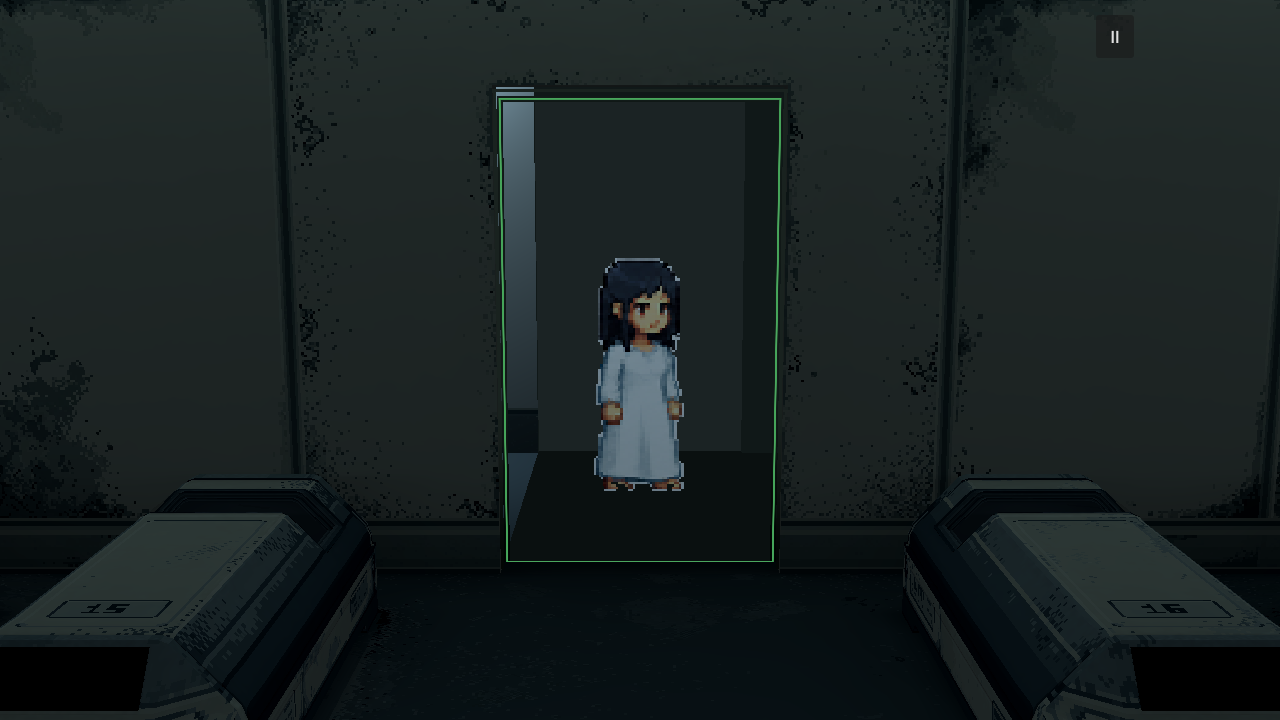
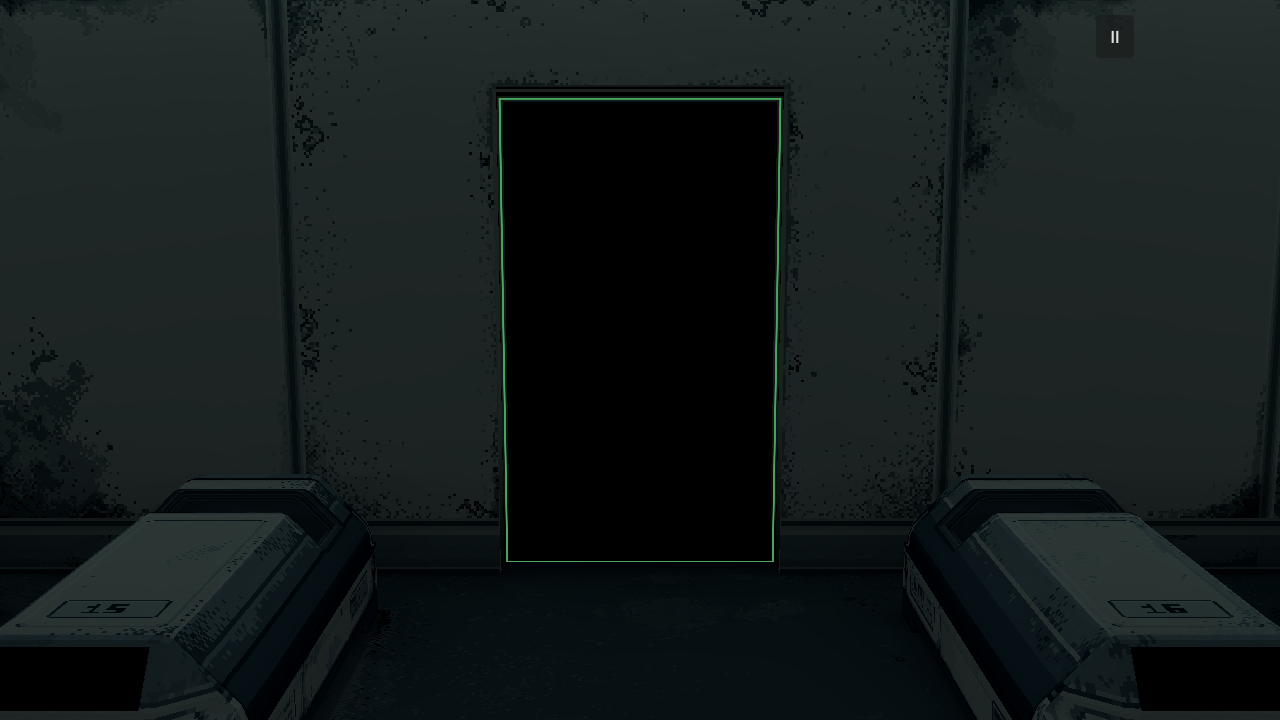
fix: reuse aisle floor and require interaction at opaque doorway

Changed region(s): [[0.375, 0.1222, 0.5938, 0.7333]]

diff --git a/docs/art/experiments/cryo_corridor_sample_v1/preview.html b/docs/art/experiments/cryo_corridor_sample_v1/preview.html
@@ -2,15 +2,15 @@
 <title>4F走廊小样 · 180°镜头与遮挡</title>
 <style>body{margin:30px auto;padding:0 22px;max-width:1320px;background:#142022;color:#dce6e4;font:16px/1.7 system-ui}h1{font-size:28px}button,select{font:inherit;padding:8px 14px;margin:4px;background:#2b4548;border:1px solid #789391;color:inherit;border-radius:5px}img{display:block;width:100%;height:auto;image-rendering:pixelated}figure{margin:22px 0}a{color:#a0d4d1}.notice{border-left:3px solid #cab58b;padding:10px 16px;background:#243336}.raw{display:flex;gap:30px;align-items:flex-start}.raw img{width:auto;max-width:45%;border:1px solid #506766}.small{color:#afc1bd}button[aria-pressed=true]{background:#49756d}</style>
 <h1>4F门外走廊 · 小样 v1</h1>
-<p>继承r30的独立F6候选。出门黑屏 → 镜头反向180° → 邻室遮挡透明；返回室内恢复。</p>
-<p class="notice">墙板为待审候选；地坪两次生成均返回纯色，仍是占位。本轮共用30次额度，已停止生成。下图均为实际Godot输出，不是效果示意图。</p>
+<p>继承r30的独立F6候选。E互动认证 → 黑色门洞 → 出门黑屏 → 镜头反向180° → 邻室遮挡透明；返回室内恢复。</p>
+<p class="notice">墙板为待审候选；地坪复用r26中央过道，避开舱位痕迹和漏液。靠近门按E后认证，门洞两面始终为黑色。此前生成用30次，本次复用与门逻辑修改0次。下图均为实际Godot输出，不是效果示意图。</p>
 <p><a href="README.md">来源、操作与验证</a> · F6：scenes/dev/cryo_corridor_sample_v1.tscn · F8到小样，F7切换灰盒／小样。</p>
-<select id="view" aria-label="比较机位"><option value="reverse180">180°反向游戏镜头</option><option value="wall">完整墙板技术审图</option><option value="oblique">走廊内斜向技术审图</option><option value="door_link">室内开门衔接</option><option value="floor">地坪范围（占位）</option></select>
+<select id="view" aria-label="比较机位"><option value="reverse180">180°反向游戏镜头</option><option value="wall">完整墙板技术审图</option><option value="oblique">走廊内斜向技术审图</option><option value="door_link">室内开门衔接</option><option value="floor">复用地坪范围</option></select>
 <button id="old" onclick="setMode('baseline')">原灰盒</button><button id="new" onclick="setMode('sample')">小样</button>
 <figure><img id="main" src="evidence/sample_reverse180.png" alt="小样180度镜头"><figcaption id="caption"></figcaption></figure>
 <h2>真实进出门状态</h2><p class="small">以下是连续操作的四个状态截图；黑屏帧是真实全黑输出。实际淡黑0.22秒、黑屏保持0.08秒、淡入0.30秒。</p>
 <button onclick="phase(0)">1 室内出门前</button><button onclick="phase(1)">2 全黑时旋转</button><button onclick="phase(2)">3 反向镜头＋透明</button><button onclick="phase(3)">4 返回室内</button>
 <figure><img id="transition" src="evidence/transition_03_reverse180.png" alt="出门后的反向视角"></figure>
-<h2>原生材质与未完成项</h2><div class="raw"><img src="raw/wall.png" alt="PixelLab墙板原图256×256"><img src="raw/floor_detail.png" alt="不合格地坪：纯色占位"></div>
-<p class="small">左：墙板原图，复用到走廊两侧。右：地坪返修原图仍为单色，未通过美术检查。没有插值放大，也没有用脚本添污斑。</p>
-<script>let mode='sample';const v=document.getElementById('view');function setMode(m){mode=m;document.getElementById('main').src='evidence/'+mode+'_'+v.value+'.png';document.getElementById('caption').textContent=(mode==='sample'?'小样（墙板候选／地坪占位）':'原灰盒')+' · '+v.options[v.selectedIndex].text+' · 1280×720';document.getElementById('old').setAttribute('aria-pressed',mode==='baseline');document.getElementById('new').setAttribute('aria-pressed',mode==='sample')}v.onchange=()=>setMode(mode);function phase(i){document.getElementById('transition').src='evidence/'+['transition_01_inside','transition_02_black','transition_03_reverse180','transition_04_inside_restored'][i]+'.png'}setMode(mode);</script></html>
+<h2>原生材质与未完成项</h2><div class="raw"><img src="raw/wall.png" alt="PixelLab墙板原图256×256"><img src="raw/floor_reused_r26.png" alt="r26中央过道原生裁片"></div>
+<p class="small">左：墙板原图，复用到走廊两侧。右：r26中央过道的256×192原生裁片，没有舱底轮廓。没有插值放大，也没有用脚本添污斑。</p>
+<script>let mode='sample';const v=document.getElementById('view');function setMode(m){mode=m;document.getElementById('main').src='evidence/'+mode+'_'+v.value+'.png';document.getElementById('caption').textContent=(mode==='sample'?'小样（墙板候选／r26复用地坪）':'原灰盒')+' · '+v.options[v.selectedIndex].text+' · 1280×720';document.getElementById('old').setAttribute('aria-pressed',mode==='baseline');document.getElementById('new').setAttribute('aria-pressed',mode==='sample')}v.onchange=()=>setMode(mode);function phase(i){document.getElementById('transition').src='evidence/'+['transition_01_inside','transition_02_black','transition_03_reverse180','transition_04_inside_restored'][i]+'.png'}setMode(mode);</script></html>

diff --git a/docs/art/experiments/cryo_corridor_sample_v1/source/package_art.py b/docs/art/experiments/cryo_corridor_sample_v1/source/package_art.py
@@ -5,8 +5,13 @@ from PIL import Image
 HERE=Path(__file__).resolve().parent;EXP=HERE.parent;ROOT=HERE.parents[4]
 DEST=ROOT/'assets/art/cryo_corridor_sample_v1';DEST.mkdir(parents=True,exist_ok=True)
 report=[]
-for name,rawname,expected in [('wall','wall',(256,256)),('floor','floor_256',(256,192))]:
- raw=EXP/'raw'/f'{rawname}.png';im=Image.open(raw);assert im.size==expected
+for name,rawname,expected in [('wall','wall',(256,256)),('floor','floor_reused_r26',(256,192))]:
+ raw=EXP/'raw'/f'{rawname}.png'
+ if name=='floor':
+  origin=ROOT/'assets/art/room1_floor_detail_full_r26/floor_with_leaks.png'
+  Image.open(origin).crop((768,256,1024,448)).save(raw)
+  (HERE/'floor_reuse_provenance.json').write_text(json.dumps({'source':origin.relative_to(ROOT).as_posix(),'source_sha256':hashlib.sha256(origin.read_bytes()).hexdigest(),'crop_xyxy':[768,256,1024,448],'source_region':'central aisle, between both pod rows; excludes rectangular pod footprints and leaks','native_size':[256,192],'world_size_m':[3.2,2.4],'resampled':False,'paint_changes':False,'new_generations':0},indent=2))
+ im=Image.open(raw);assert im.size==expected
  shutil.copy2(raw,DEST/f'{name}.png')
  # OpenRaster is an editable, named source layer; no painting/retouch is applied.
  with zipfile.ZipFile(EXP/'editable'/f'{name}.ora','w') as z:

diff --git a/docs/art/experiments/cryo_corridor_sample_v1/source/build_model.py b/docs/art/experiments/cryo_corridor_sample_v1/source/build_model.py
@@ -22,7 +22,7 @@ def mesh(name,verts,faces,uvs,mat):
  ob=bpy.data.objects.new(name,me);bpy.context.collection.objects.link(ob);me.materials.append(mat)
  ob['scope']='visual cladding only; existing route collision retained';return ob
 
-wall=material('Corridor_Wall_PixelLab','wall.png');floor=material('Corridor_Floor_Placeholder','floor.png');trim=material('Corridor_Dark_Trim',color=(.12,.17,.18,1))
+wall=material('Corridor_Wall_PixelLab','wall.png');floor=material('Corridor_Floor_Reused_R26','floor.png');trim=material('Corridor_Dark_Trim',color=(.12,.17,.18,1))
 # Front wall veneer occupies the existing wall thickness; visible face offset 3mm to avoid coplanar overlap.
 w=mesh('Wall_3p2m_TwoBays',[(6.6,0,-11.897),(9.8,0,-11.897),(9.8,3.2,-11.897),(6.6,3.2,-11.897)],[(0,1,2,3)],[[(0,0),(1,0),(1,1),(0,1)]],wall)
 wr=mesh('Room1_Exterior_Wall_Module',[(9.8,0,-9.503),(6.6,0,-9.503),(6.6,3.2,-9.503),(9.8,3.2,-9.503)],[(0,1,2,3)],[[(0,0),(1,0),(1,1),(0,1)]],wall)

diff --git a/docs/art/experiments/cryo_corridor_sample_v1/README.md b/docs/art/experiments/cryo_corridor_sample_v1/README.md
@@ -1,30 +1,30 @@
 # 4F门外走廊小样 v1
 
-2026-11-04。独立F6候选，继承最新室内r30；正式F5仍为r19。当前交付是**墙板材质＋局部模块＋出门镜头/遮挡原型**。地坪生成不合格，保持纯色占位，不能称为完成的走廊美术。
+2026-11-04。独立F6候选，继承最新室内r30；正式F5仍为r19。当前交付是**墙板材质＋局部模块＋出门镜头/遮挡原型**。地坪已按用户要求复用r26中央过道原生材质，排除舱位接触轮廓和漏液；不再使用此前纯色占位。
 
 [实际Godot画面对照](preview.html)
 
 ## 运行与操作
 
-打开`scenes/dev/cryo_corridor_sample_v1.tscn`，按F6。WASD移动，靠近Room 1门自动认证。F8跳到小样；F7切换灰盒／小样。原有F1走廊、F2西梯、F3一层平台审查跳转保留。
+打开`scenes/dev/cryo_corridor_sample_v1.tscn`，按F6。WASD移动，靠近Room 1门按E后开始认证；靠近但不互动时保持待机。门洞使用固定的双面黑色遮挡，开门后也不能透视里外，角色仍可正常穿过并触发黑屏切镜头。F8跳到小样；F7切换灰盒／小样。原有F1走廊、F2西梯、F3一层平台审查跳转保留。
 
 用户本轮暂定：出门黑屏过渡，镜头相对室内水平旋转180°，其他房间挡镜头时透明化。此候选实现：
 
 - 出门阈值z＜-9.72m；0.22秒淡黑，在全黑时反向镜头，保持0.08秒后0.30秒淡入。返回z＞-9.25m时反向恢复，阈值间留滞回区，避免站在边界反复切换。
 - 保留室内相机高度、距离和焦点高度，走廊只把水平偏移从+Z改为-Z。西梯仍使用原有临时楼梯镜头，不声称楼梯镜头已定稿。
 - 走廊按反向镜头映射WASD；切换期间停止移动，切换后需松开原按键再移动，避免持续按键立即把角色送回门内。测试输入仍明确使用世界方向。
-- 相机到角色周围约8m走廊范围的射线检查邻室墙、门及小样模块。遮挡对象渐变至12%不透明度，脱离遮挡后恢复；使用材质副本，不修改共享资源，也不关闭碰撞。当前是整块网格透明，不是最终的局部圆形遮挡裁切。
+- 相机到角色周围约8m走廊范围的射线检查邻室墙、门及小样模块。遮挡对象渐变至12%不透明度，脱离遮挡后恢复；使用材质副本，不修改共享资源，也不关闭碰撞。当前是整块网格透明，不是最终的局部圆形遮挡裁切。门洞黑幕不参加遮挡透明。
 
 ## 小样范围与制作来源
 
 冻结标准层与既有route_v3为坐标依据：门外走廊宽2.4m，对面墙前沿z=-11.9m，Room 1外缘z=-9.5m。选取x=6.6–9.8m的一段，避开x=9.8–11.2m门洞。不是整栋外部或1F室外出口设计。
 
 - 一组双墙板模块3.2×3.2m，256×256原生PixelLab图，复用到走廊两侧。上下端、灯槽和板缝用简单低模结构表达；另有0.2m顶盖。两侧是同一模块复用，不冒充两份独立差分。
-- 地坪模块3.2×2.4m、256×192；两次PixelLab输出都只有1种颜色，未通过材质审查。运行中明确作为占位，保存失败原图，未用程序化污斑代替绘画。
+- 地坪模块3.2×2.4m、256×192；直接从现有r26的1648×728原生颜色图裁取`(768,256)-(1024,448)`中央过道区域。两排舱位轮廓主要在y=43–223及506–686，本区域位于中间，亦避开已知漏液。无缩放、调色、重画、翻转或新生成。来源SHA和裁取坐标见`source/floor_reuse_provenance.json`。历史两次纯色输出保留为失败记录。
 - 主要面80原生像素/米；最近邻采样，没有放大重采样。表面偏移3mm用于避免与原灰盒共面闪烁；原碰撞和门洞不变。
 - 三个仅影响新增模块的实时补光用于审图，不影响r30室内材质或烘焙。无新光照图，也没有套用旧室内光图到新几何；UV2图集、raw/denoised烘焙比较在本次实时样段中不适用。正式走廊灯光与楼梯运动感应灯带尚未完成。
 - `cryo_corridor_sample_v1.blend`为可编辑模块源，引用同仓库相对贴图；`source/build_model.py`可重建模型。`assets/art/cryo_corridor_sample_v1/`为GLB/PNG运行数据。
-- `raw/`保留PixelLab原图；`editable/`是命名为原图层的OpenRaster母版。本机没有找到Aseprite，故本轮没有Aseprite精修，也没有改用其他工具绘制主体。
+- `raw/`保留PixelLab原图和r26裁片；`editable/`是命名为原图层的OpenRaster母版。本机没有找到Aseprite，故本轮没有Aseprite精修，也没有改用其他工具绘制主体。
 
 ## API与额度实录
 
@@ -37,7 +37,7 @@
 | floor_256 | 256×192 | API完成，但返回纯色；美术不合格 | 10 |
 | floor_detail | 256×192 | 唯一一次定向返修仍为纯色；不合格 | 10 |
 
-合计30次，按账目剩余161次；达到授权上限后停止。精确任务ID、接口、种子、提示词、导图/遮罩、返回用量见`source/requests.json`、`source/job_*.json`、`result_*.json`。一次本机HTTP头编码错误在发送前终止，未消耗额度。脚本保留任务ID，不因状态不明重新POST；默认必须指定任务名，不能整队重跑。
+历史生成合计30次，按账目剩余161次；达到授权上限后停止。本轮地坪复用与门逻辑修改新增消耗0次。精确任务ID、接口、种子、提示词、导图/遮罩、返回用量见`source/requests.json`、`source/job_*.json`、`result_*.json`。一次本机HTTP头编码错误在发送前终止，未消耗额度。脚本保留任务ID，不因状态不明重新POST；默认必须指定任务名，不能整队重跑。
 
 ## 验证结果与限制
 
@@ -45,6 +45,6 @@
 - `camera_validation.json`：黑屏alpha=1时切镜头，水平朝向点积-1；出门与返回各一次过渡；返回后所有透明副本恢复；实际D键测试在反向视角下向屏幕右移动。原r30材质模式保持2。
 - `source/model_validation.json`：三个主要表面UV0均为连续四边面，0–1范围、非零面积、80px/m；共用墙板纹理是有意复用。没有分岛光图或烘焙扩边。
 - `evidence/`：1280×720原始游戏输出；同机位灰盒/小样、完整墙板、地坪技术视图、180°反向游戏视图与黑屏/返回状态。技术相机只存在于捕获脚本。
-- 技术检查通过不等于美术验收。小样之外仍是灰盒；门背面、全走廊照明、地坪材质、完整差分及楼梯效果未完成，1F室外出口仍待确定。Room 1已认可室内没有返修，主角3D仍暂缓。
+- 技术检查通过不等于美术验收。小样之外仍是灰盒；门背面、全走廊照明、地坪推广、完整差分及楼梯效果未完成，1F室外出口仍待确定。Room 1已认可室内没有返修，主角3D仍暂缓。
 
 运行验证：Godot4.6.2 `--headless --path . --fixed-fps 60 res://scenes/dev/cryo_corridor_sample_v1_verify.tscn`；相机验证将场景名换成`cryo_corridor_camera_v1_verify.tscn`。带图形运行相机验证会补写四张过渡证据图。

diff --git a/docs/art/ROOM1_NEXT_SCHOOL_HANDOFF.md b/docs/art/ROOM1_NEXT_SCHOOL_HANDOFF.md
@@ -1,5 +1,6 @@
 # 学校交接：2026-11-04 继续门外场景
 
+**2026-11-04后续更新：**走廊小样已复用r26中央过道地坪（原生裁取，避开舱位与漏液）；门改为E互动后才认证，门洞双面黑色遮挡，开门后不可透视里外。本次新增PixelLab消耗0次。下方较早记录中的“地坪占位／自动认证”仅为历史状态。
 **2026-11-04执行更新：**已完成[走廊局部模块／墙板候选与镜头原型](experiments/cryo_corridor_sample_v1/README.md)，F6 `scenes/dev/cryo_corridor_sample_v1.tscn`。用户新暂定方案为出门黑屏后相机水平反转180°，邻室遮挡透明，返回室内恢复；候选内已实现并通过往返、方向及碰撞检查。PixelLab API已在学校验证，使用30次额度；墙板候选待审，地坪两次返回纯色未通过，已停止生成。没有完成全走廊、楼梯正式美术或1F室外出口，未迁移F5或推进主角3D。下面保留11月3日的原始开工交接。
 
 更新：2026-11-03，日本时间。交接前成果基线为GitHub main `097847bc0dcccc667dbe7ef39ad03433ebc55599`；交接本身随后单独提交。本文为当前学校交接入口，替代原2026-10-30仅描述r19的旧状态，历史可查Git。

diff --git a/从这里开始.md b/从这里开始.md
@@ -1,5 +1,6 @@
 # Echoes of Ruin：当前工作入口
 
+**2026-11-04后续更新：**走廊小样已复用r26中央过道地坪（原生裁取，避开舱位与漏液）；门改为E互动后才认证，门洞双面黑色遮挡，开门后不可透视里外。本次新增PixelLab消耗0次。下方较早记录中的“地坪占位／自动认证”仅为历史状态。
 **2026-11-04学校进展：**[4F走廊小样＋黑屏180°镜头／遮挡透明](docs/art/experiments/cryo_corridor_sample_v1/preview.html)，独立F6 `scenes/dev/cryo_corridor_sample_v1.tscn`，F8到小样、F7比较。墙板待审；地坪生成两次纯色，仍占位，本轮30次额度已停止。进出门镜头恢复、透明恢复与原路线通行通过；正式F5仍r19，室内r30保持。[完整记录](docs/art/experiments/cryo_corridor_sample_v1/README.md)。下方11月3日交接保留为开工背景。
 
 **明天学校继续（2026-11-04）：**先读[最新学校交接](docs/art/ROOM1_NEXT_SCHOOL_HANDOFF.md)。用户要求先继续外部场景；建议以现有4F门外走廊／消防梯路线为起点，主角3D暂缓。交接内含当前r30／正式r19区别、三视图v2状态、外部约束和学校PixelLab连接准备。

diff --git a/docs/art/ROOM1_VERSION_INDEX.md b/docs/art/ROOM1_VERSION_INDEX.md
@@ -1,5 +1,6 @@
 # Room 1：当前、正式与历史版本索引
 
+**2026-11-04后续更新：**走廊小样已复用r26中央过道地坪（原生裁取，避开舱位与漏液）；门改为E互动后才认证，门洞双面黑色遮挡，开门后不可透视里外。本次新增PixelLab消耗0次。下方较早记录中的“地坪占位／自动认证”仅为历史状态。
 2026-11-04新增独立[4F走廊小样v1](experiments/cryo_corridor_sample_v1/README.md)：继承r30，墙板候选、地坪占位；黑屏180°转向与邻室遮挡透明已实现并测试，正式F5未迁移。F6 `scenes/dev/cryo_corridor_sample_v1.tscn`，不替换下方室内素材基线。
 
 核对日期：2026-11-03。此索引区分素材用途；用户已更新视觉与制作约束，见[像素美术制作基准](PIXEL_ART_PRODUCTION_STANDARD.md)。约束更新不代表下表素材已经返修或验收通过。
